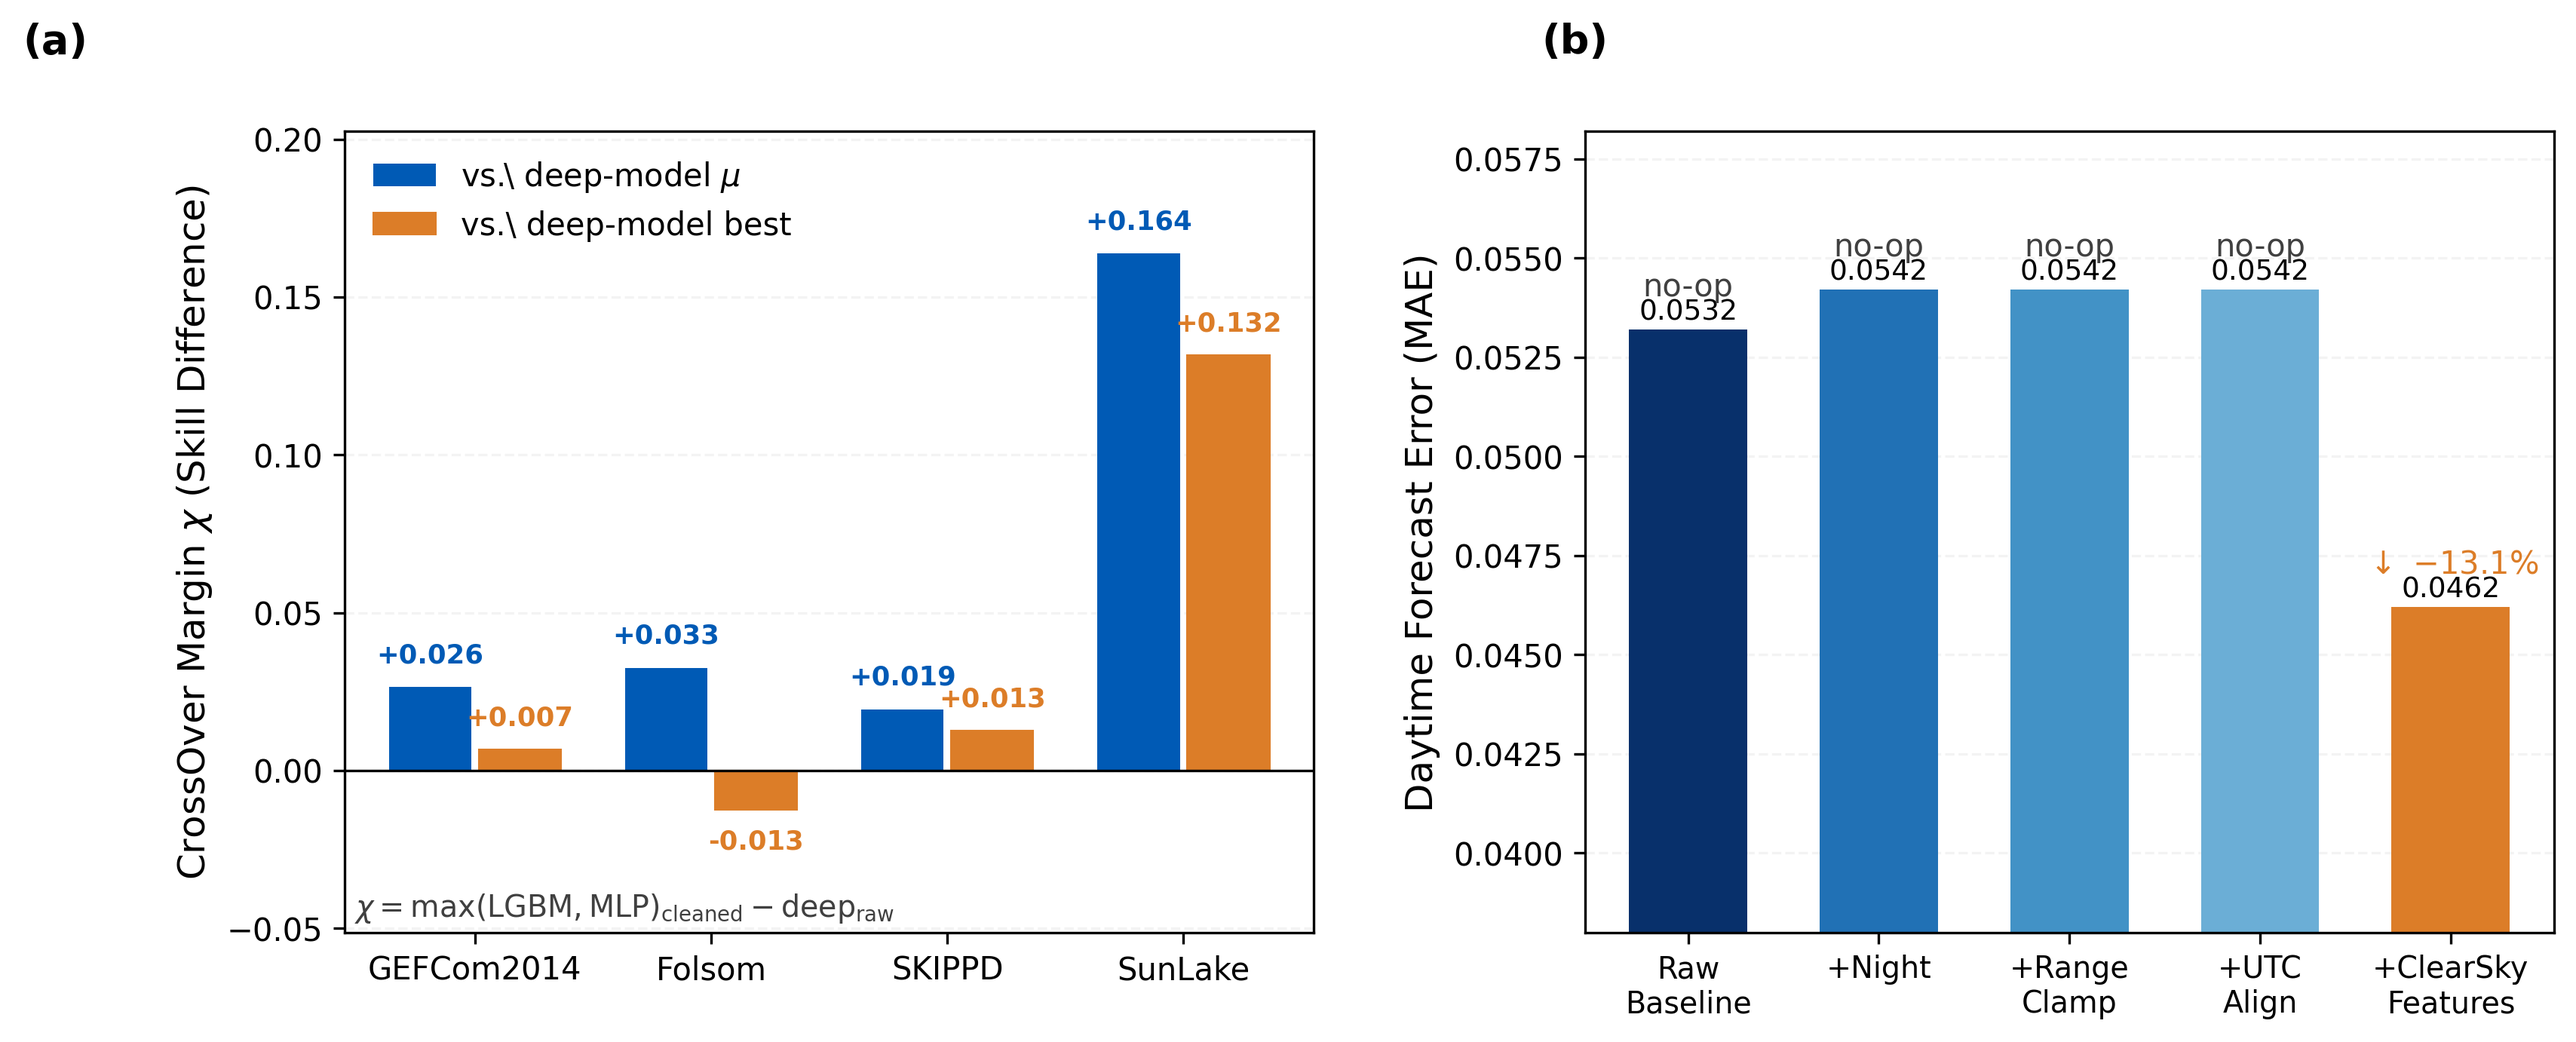
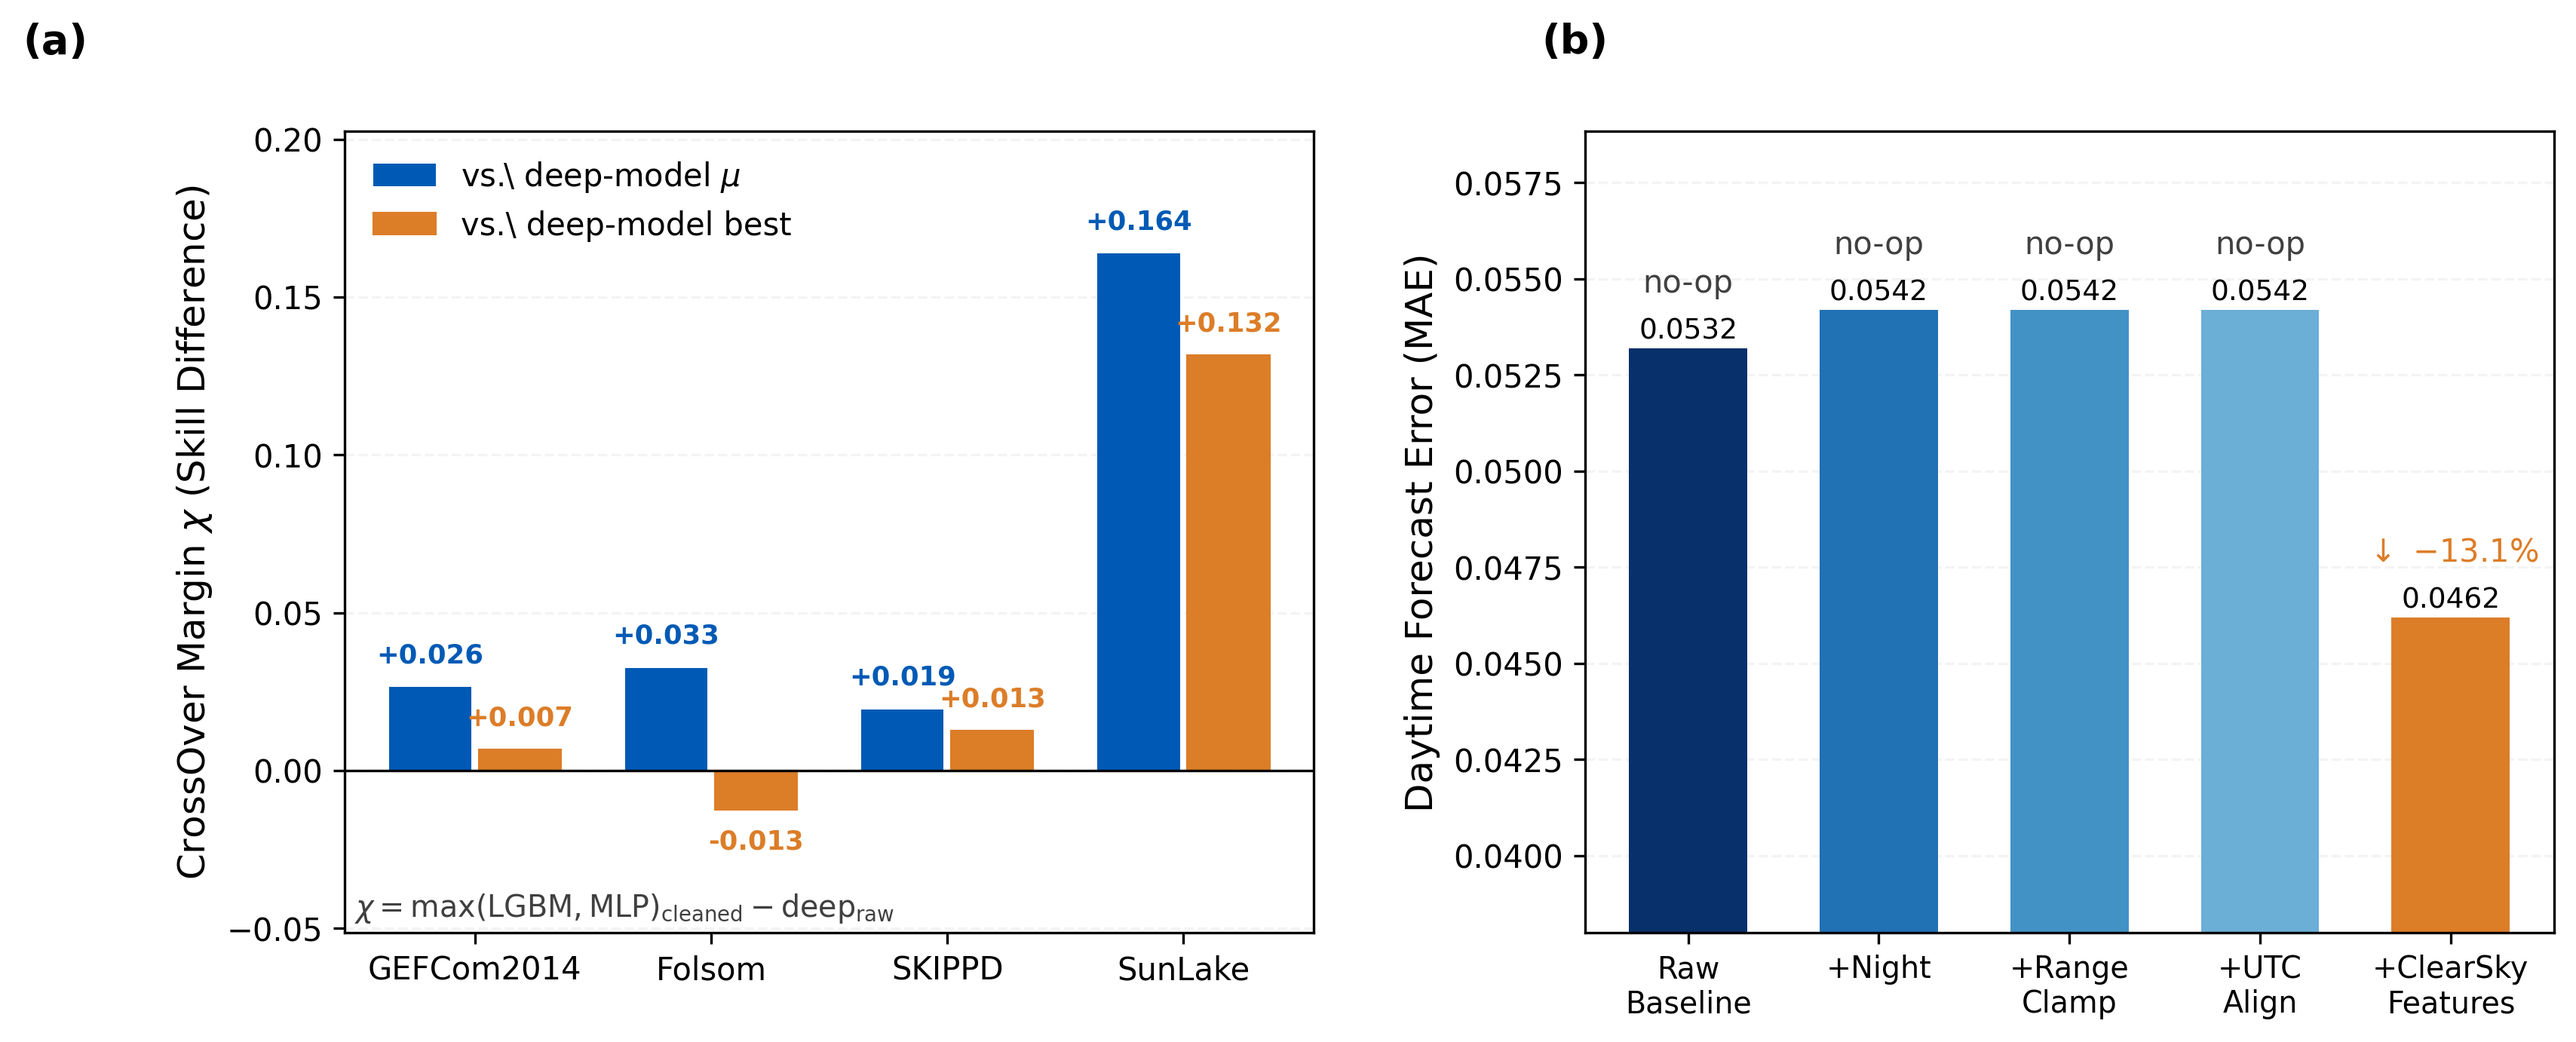
viz(e9-gemini): waterfall notes lifted to 16%-span above the bars (fully clear of the MAE values); 58% headroom

diff --git a/scripts/plot_e9_gemini.py b/scripts/plot_e9_gemini.py
@@ -114,12 +114,12 @@ def _panel_b(ax: plt.Axes) -> None:
             note = r"$\downarrow$ $-13.1\%$"
             ncol, nfw = ORANGE, "bold"
         # Note floats well above the value (no overlap with it).
-        ax.text(b.get_x() + b.get_width() / 2, v + 0.085 * span, note,
+        ax.text(b.get_x() + b.get_width() / 2, v + 0.16 * span, note,
                 ha="center", va="bottom", fontsize=10, color=ncol,
                 fontweight=nfw)
     ax.set_xticks(np.arange(len(mae)), steps, fontsize=9.5)
     ax.set_ylabel(r"Daytime Forecast Error (MAE)")
-    ax.set_ylim(0.038, max(mae) + 0.50 * span)   # headroom for note + value
+    ax.set_ylim(0.038, max(mae) + 0.58 * span)   # headroom for note + value
     ax.grid(axis="y", linestyle="--", alpha=0.15)
     ax.set_axisbelow(True)
 
